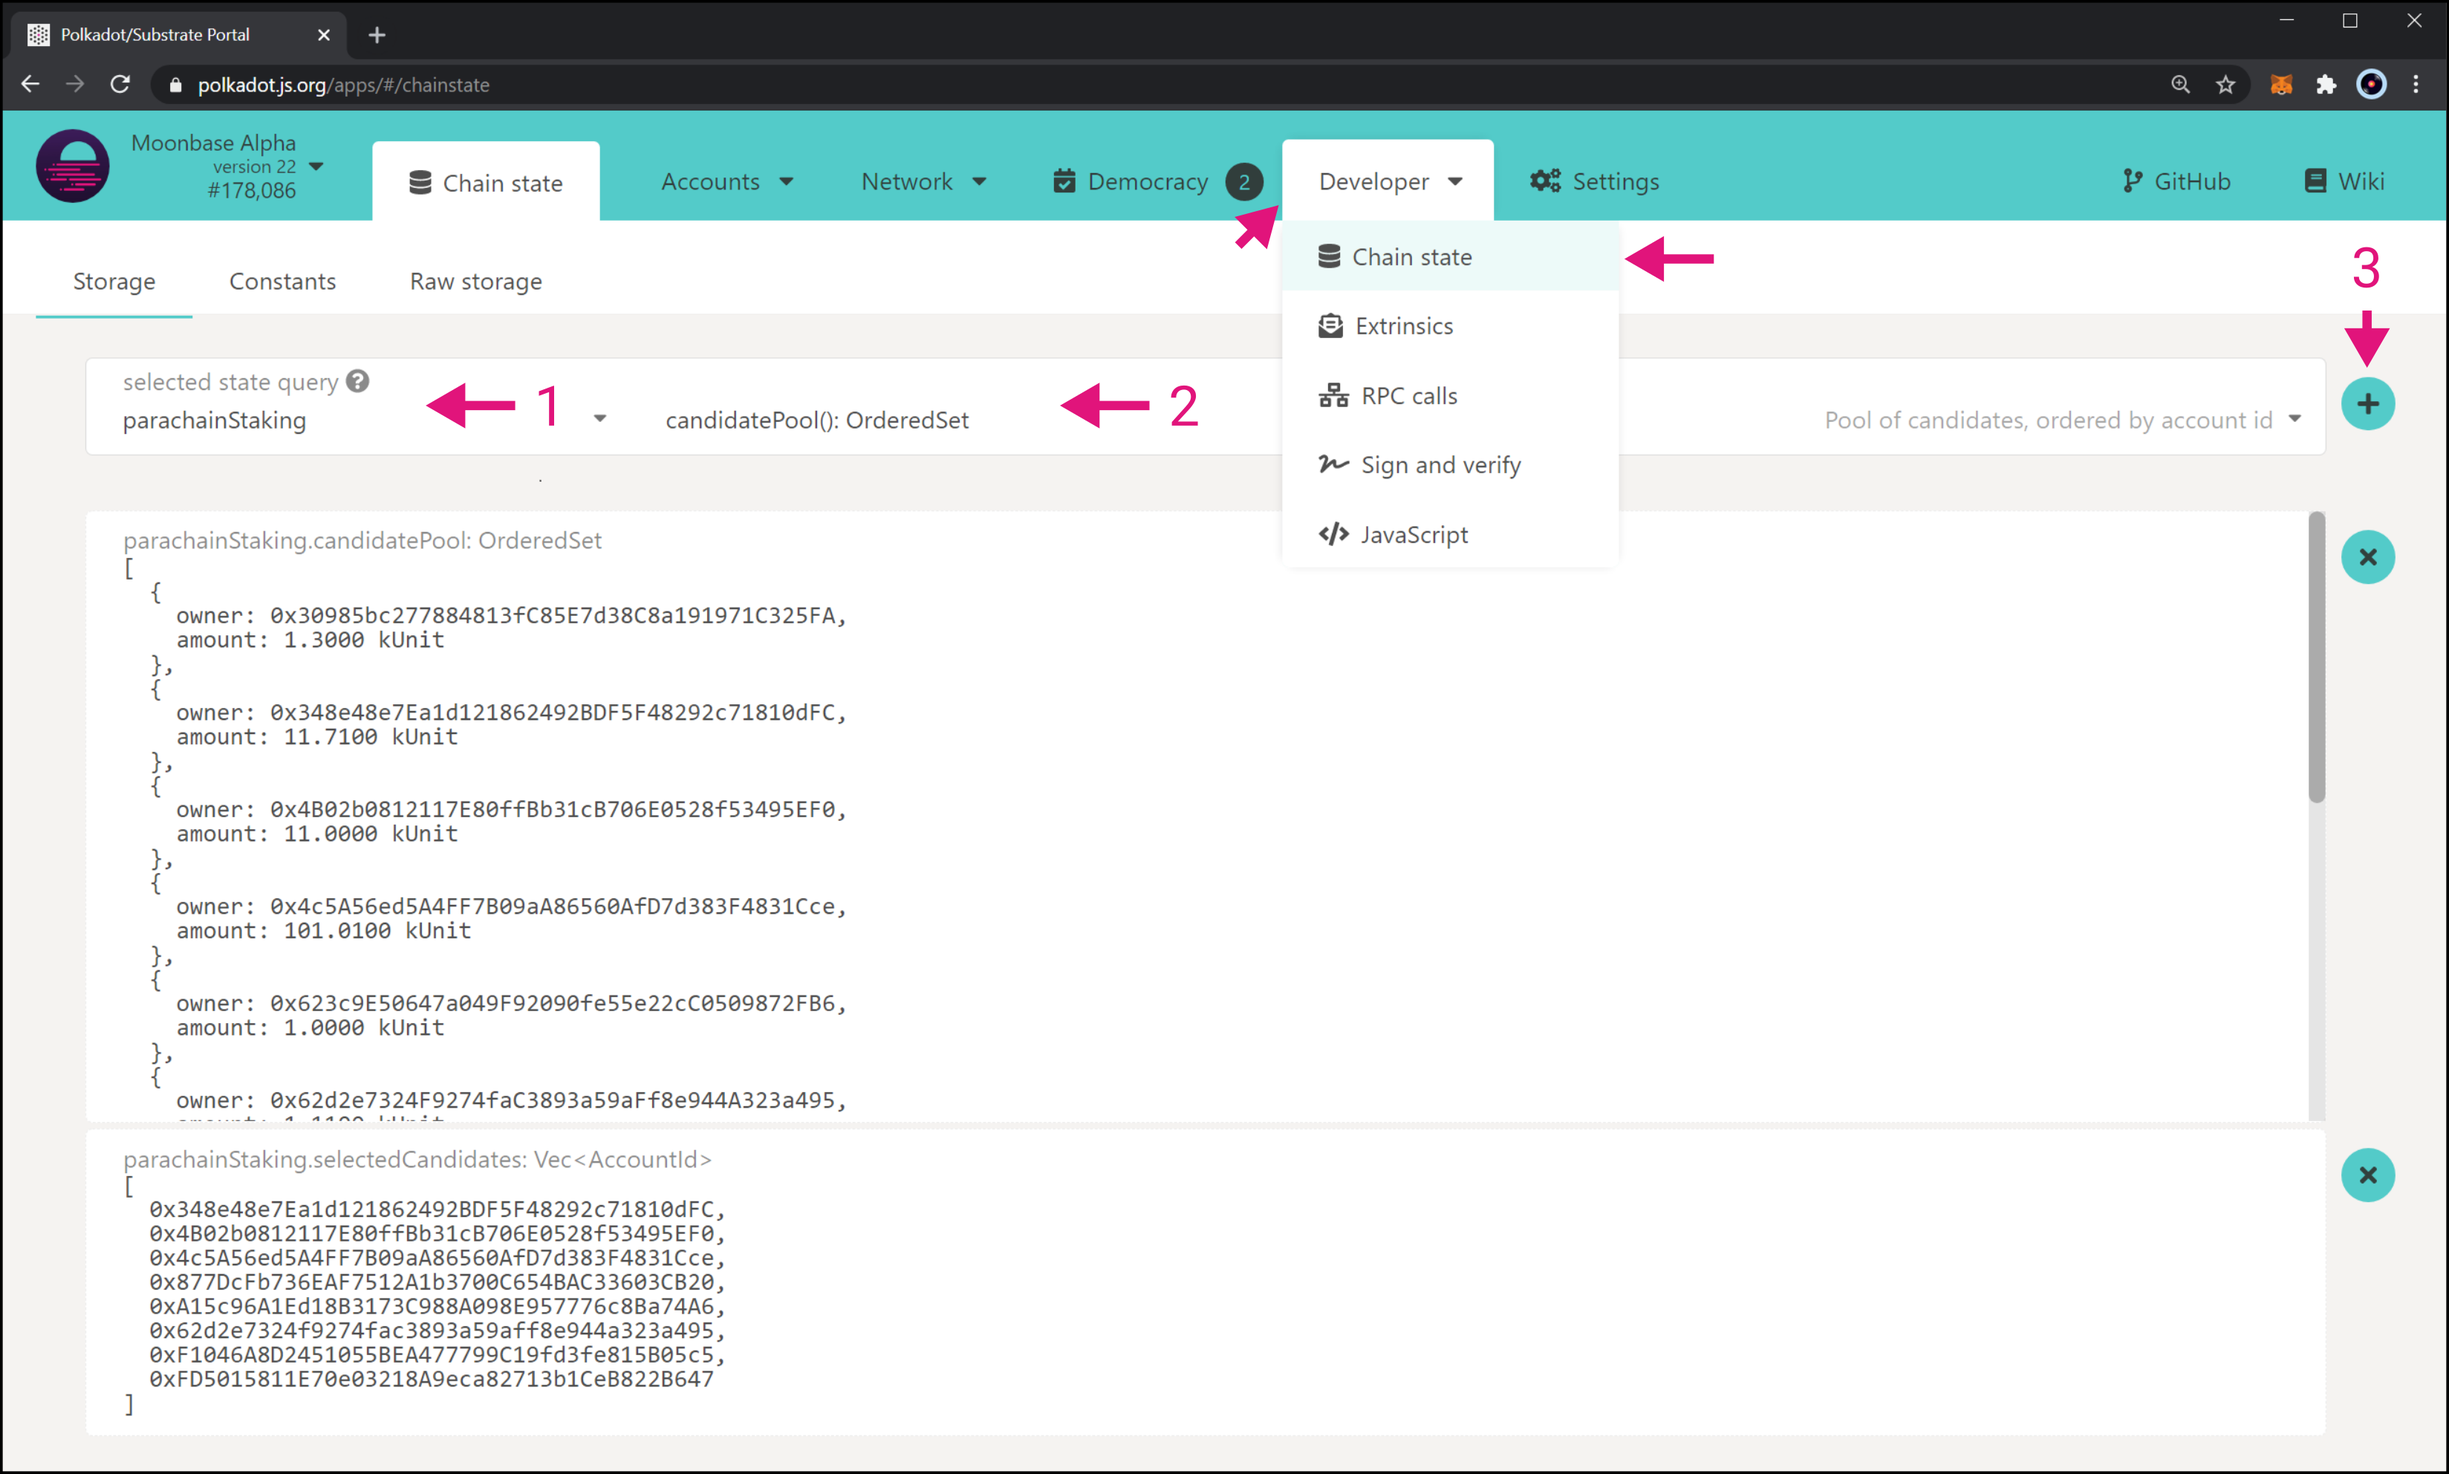
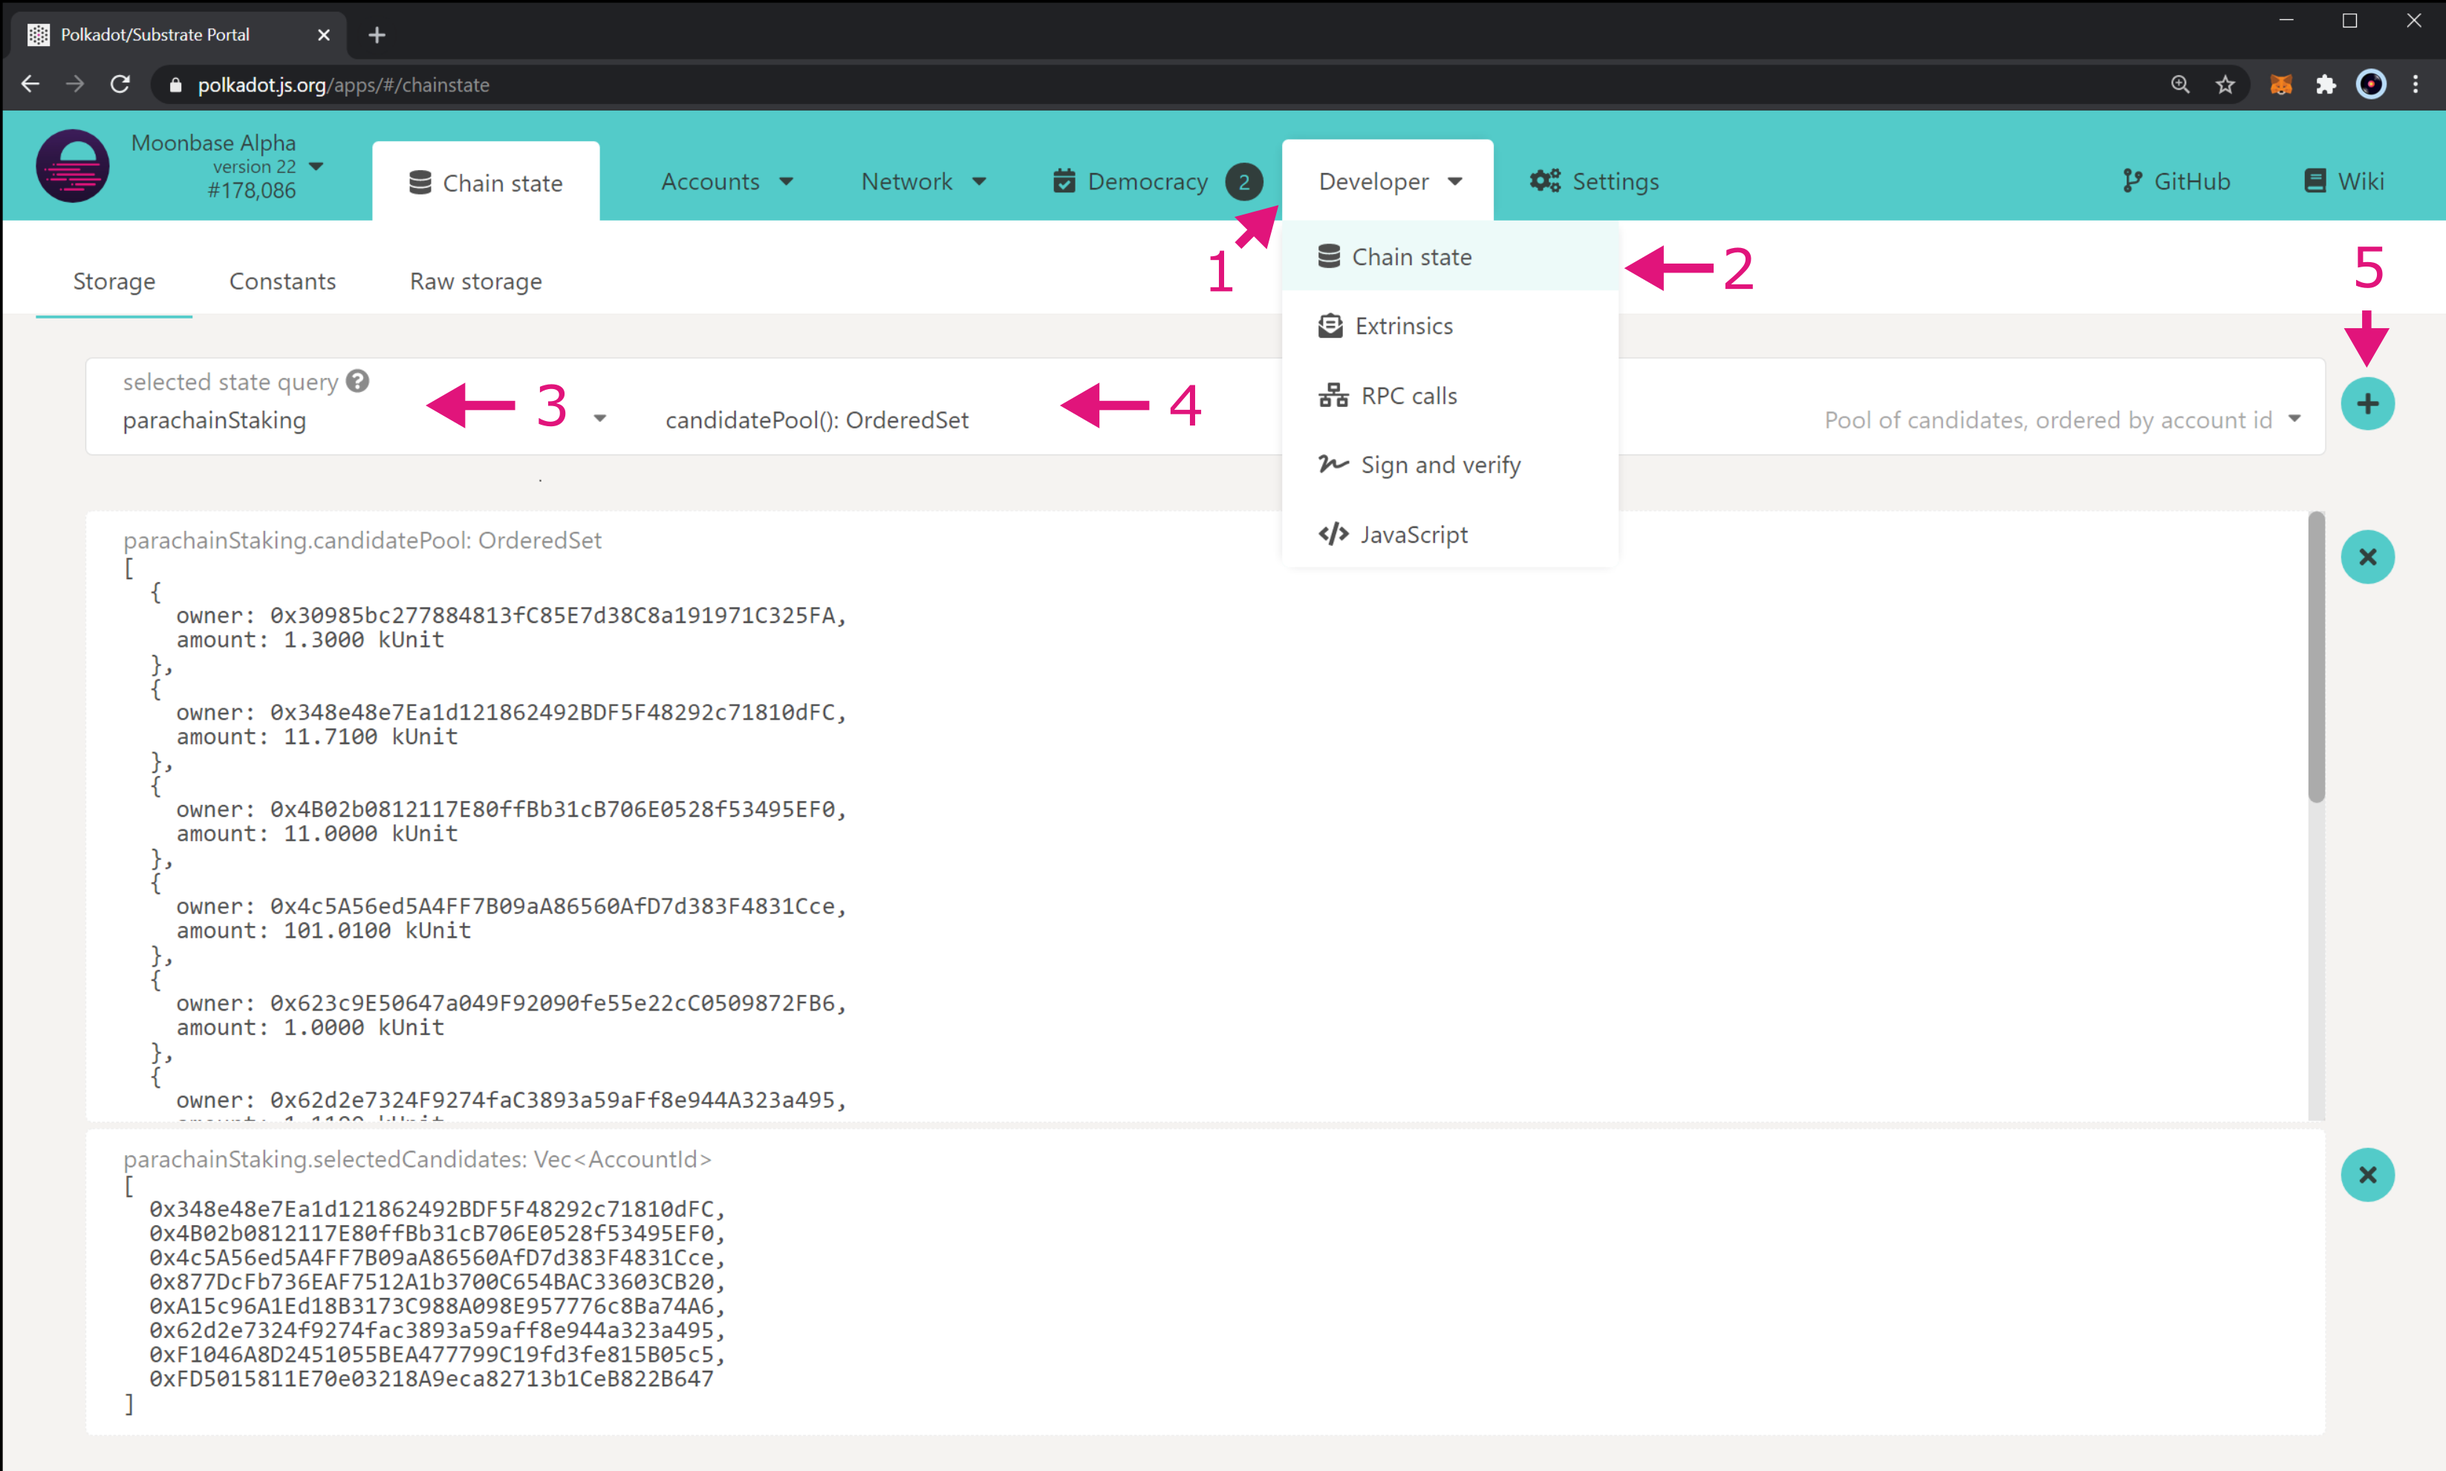
feedback updates part 2

diff --git a/staking/stake.md b/staking/stake.md
@@ -52,9 +52,11 @@ Before starting to stake tokens, it is important to retrieve the list of collato
 
 Here, provide the following information:
 
- 1. Choose the pallet to interact with. In this case, it is the `parachainStaking` pallet
- 2. Choose the state to query. In this case, it is the `selectedCandidates` or `candidatePool` state
- 3. Send the state query by clicking on the "+" button
+ 1. Head to the "Developer" tab 
+ 2. Click on "Chain State"
+ 3. Choose the pallet to interact with. In this case, it is the `parachainStaking` pallet
+ 4. Choose the state to query. In this case, it is the `selectedCandidates` or `candidatePool` state
+ 5. Send the state query by clicking on the "+" button
 
 Each extrinsic provides a different response:
 
